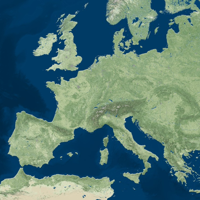
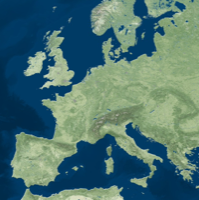
update BaseMaps

diff --git a/lib/ViewModels/createGlobalBaseMapOptions.js b/lib/ViewModels/createGlobalBaseMapOptions.js
@@ -175,34 +175,6 @@ var createGlobalBaseMapOptions = function(terria, bingMapsKey, mapboxApiKey) {
         catalogItem: gebco
     }));
 
-    var blueMarble = new WebMapServiceCatalogItem(terria);
-    blueMarble.name = 'NASA Blue Marble';
-    blueMarble.url = 'https://tiles.maps.eox.at/wms';
-    blueMarble.layers = 'bluemarble_3857';
-    blueMarble.parameters = {
-        tiled: true
-    };
-    blueMarble.opacity = 1.0;
-    blueMarble.isRequiredForRendering = true;
-
-    result.push(new BaseMapViewModel({
-	image: require('../../wwwroot/images/blueMarble.png'),
-        catalogItem: blueMarble
-    }));
-
-    var mapboxMap = new MapboxMapCatalogItem(terria);
-    mapboxMap.name = 'Mapbox Satellite ';
-    mapboxMap.mapId = 'mapbox.satellite';
-    mapboxMap.credit = 'Mapbox';
-    mapboxMap.accessToken = mapboxApiKey;
-    mapboxMap.opacity = 1.0;
-    mapboxMap.isRequiredForRendering = true;
-
-    result.push(new BaseMapViewModel({
-       image: require('../../wwwroot/images/mapBox.png'),
-       catalogItem: mapboxMap
-    }));
-
     var blackMarble = new WebMapServiceCatalogItem(terria);
     blackMarble.name = 'NASA Black Marble';
     blackMarble.url = 'https://tiles.maps.eox.at/wms';
@@ -218,20 +190,74 @@ var createGlobalBaseMapOptions = function(terria, bingMapsKey, mapboxApiKey) {
         catalogItem: blackMarble
     }));
 
-    var naturalEarthII = new WebMapServiceCatalogItem(terria);
-    naturalEarthII.name = 'Natural Earth II';
-    naturalEarthII.url = 'https://maps.leylines.ch:8443/geoserver/baseMaps/wms';
-    naturalEarthII.layers = 'naturalEarthII';
-    naturalEarthII.parameters = {
-        tiled: true
-    };
-    naturalEarthII.opacity = 1.0;
-    naturalEarthII.isRequiredForRendering = true;
+//    var blueMarble = new WebMapServiceCatalogItem(terria);
+//    blueMarble.name = 'NASA Blue Marble';
+//    blueMarble.url = 'https://tiles.maps.eox.at/wms';
+//    blueMarble.layers = 'bluemarble_3857';
+//    blueMarble.parameters = {
+//        tiled: true
+//    };
+//    blueMarble.opacity = 1.0;
+//    blueMarble.isRequiredForRendering = true;
+//
+//    result.push(new BaseMapViewModel({
+//	image: require('../../wwwroot/images/blueMarble.png'),
+//        catalogItem: blueMarble
+//    }));
+
+    var mapboxMap = new MapboxMapCatalogItem(terria);
+    mapboxMap.name = 'Mapbox Satellite ';
+    mapboxMap.mapId = 'mapbox.satellite';
+    mapboxMap.credit = 'Mapbox';
+    mapboxMap.accessToken = mapboxApiKey;
+    mapboxMap.opacity = 1.0;
+    mapboxMap.isRequiredForRendering = true;
 
     result.push(new BaseMapViewModel({
-	image: require('../../wwwroot/images/naturalEarth.png'),
-        catalogItem: naturalEarthII
+       image: require('../../wwwroot/images/mapBox.png'),
+       catalogItem: mapboxMap
     }));
+
+    var outdoorsMap = new MapboxMapCatalogItem(terria);
+    outdoorsMap.name = 'Mapbox Outdoors';
+    outdoorsMap.mapId = 'mapbox.outdoors';
+    outdoorsMap.credit = 'Mapbox';
+    outdoorsMap.accessToken = mapboxApiKey;
+    outdoorsMap.opacity = 1.0;
+    outdoorsMap.isRequiredForRendering = true;
+
+    result.push(new BaseMapViewModel({
+       image: require('../../wwwroot/images/mapBoxOutdoors.png'),
+       catalogItem: outdoorsMap
+    }));
+
+    var piratesMap = new MapboxMapCatalogItem(terria);
+    piratesMap.name = 'Mapbox Pirates';
+    piratesMap.mapId = 'mapbox.pirates';
+    piratesMap.credit = 'Mapbox';
+    piratesMap.accessToken = mapboxApiKey;
+    piratesMap.opacity = 1.0;
+    piratesMap.isRequiredForRendering = true;
+
+    result.push(new BaseMapViewModel({
+       image: require('../../wwwroot/images/mapBoxPirates.png'),
+       catalogItem: piratesMap
+    }));
+
+//    var naturalEarthII = new WebMapServiceCatalogItem(terria);
+//    naturalEarthII.name = 'Natural Earth II';
+//    naturalEarthII.url = 'https://maps.leylines.ch:8443/geoserver/baseMaps/wms';
+//    naturalEarthII.layers = 'naturalEarthII';
+//    naturalEarthII.parameters = {
+//        tiled: true
+//    };
+//    naturalEarthII.opacity = 1.0;
+//    naturalEarthII.isRequiredForRendering = true;
+//
+//    result.push(new BaseMapViewModel({
+//	image: require('../../wwwroot/images/naturalEarth.png'),
+//        catalogItem: naturalEarthII
+//    }));
 
     return result;
 };

diff --git a/lib/ReactViews/Notification/NotificationWindow.jsx b/lib/ReactViews/Notification/NotificationWindow.jsx
@@ -46,7 +46,7 @@ const NotificationWindow = createReactClass({
                     <div className={Styles.inner}>
                         <h3 className='title'>{title}</h3>
                         {window.location.host === 'localhost:3001' && title.toLowerCase().indexOf('error') >= 0 &&
-                            <div><img src='./build/TerriaJS/images/feature.gif'/></div>
+                            <div><img src='./build/LeylinesJS/images/feature.gif'/></div>
                         }
                         <div className={Styles.body}>{parseCustomMarkdownToReact(message)}</div>
                     </div>
